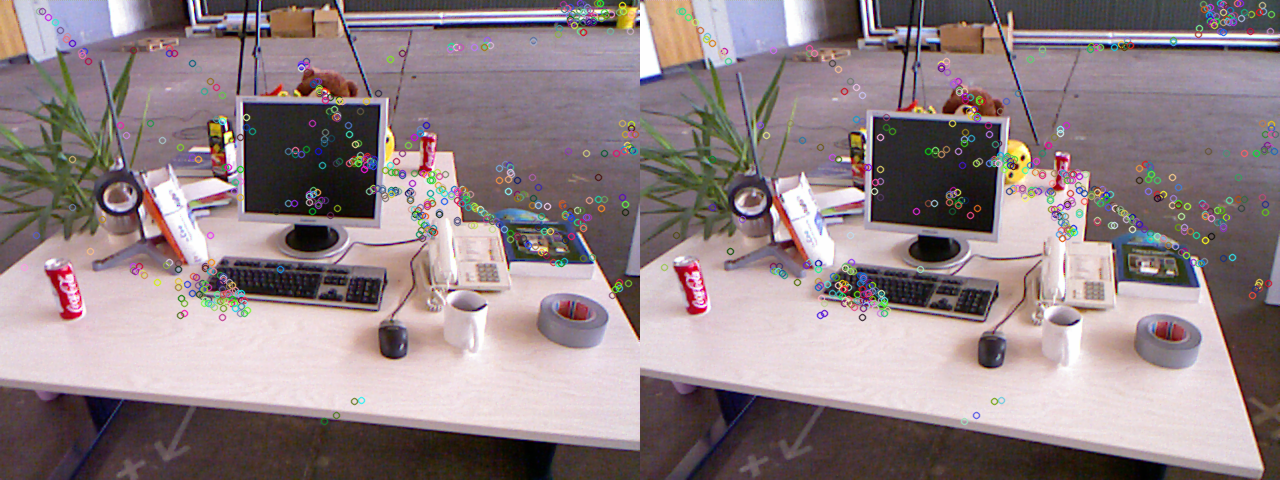
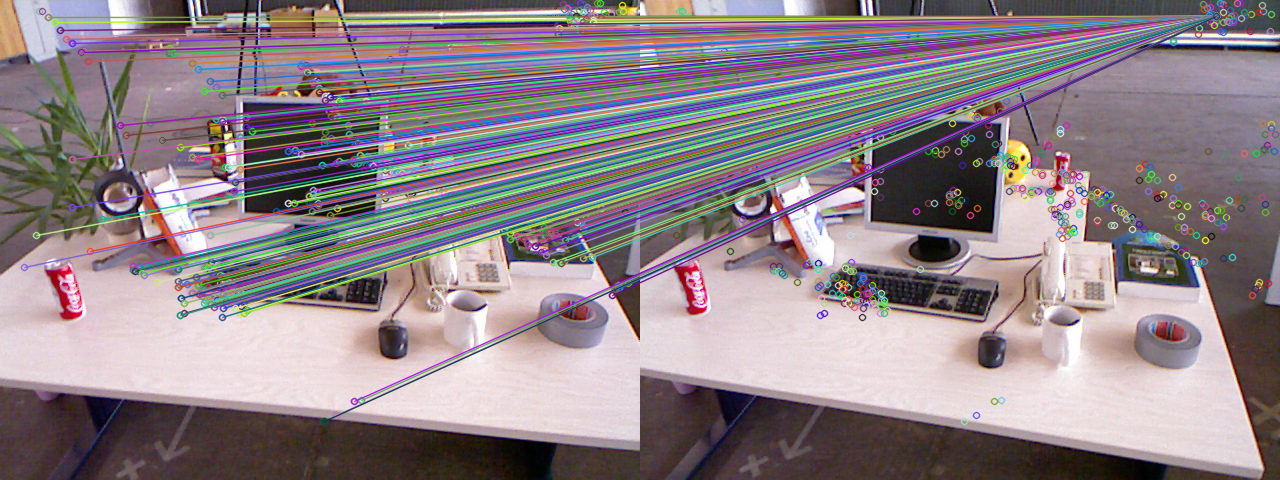
[Mod] Chapter 7 triangulation created

diff --git a/nicolas/ch7/triangulation/src/triangulation.cpp b/nicolas/ch7/triangulation/src/triangulation.cpp
@@ -1,0 +1,299 @@
+/* =========== */
+/*  Libraries  */
+/* =========== */
+#define OPENCV3  // If not defined, OpenCV2
+
+/* System Libraries */
+#include <iostream>
+#include <chrono>
+
+#include <opencv2/core/core.hpp>
+#include <opencv2/features2d/features2d.hpp>
+#include <opencv2/highgui/highgui.hpp>
+#include <opencv2/calib3d/calib3d.hpp>
+#include <opencv2/opencv.hpp>
+
+/* Custom Libraries */
+#include "../../include/libUtils.h"
+
+using namespace std;
+using namespace cv;
+
+/* Global Variables */
+// string image1_filepath = "../../orb_features/src/1.png";
+// string image2_filepath = "../../orb_features/src/2.png";
+string image1_filepath = "/home/nicolas/github/nicolasrosa-forks/slam/slambook2/nicolas/ch7/orb_features/src/1.png";
+string image2_filepath = "/home/nicolas/github/nicolasrosa-forks/slam/slambook2/nicolas/ch7/orb_features/src/2.png";
+
+double matches_lower_bound = 30.0;
+
+// Camera Internal parameters, TUM Freiburg2
+Mat K = (Mat_<double>(3, 3) << 520.9, 0, 325.1, 0, 521.0, 249.7, 0, 0, 1);
+Point2d principal_point(325.1, 249.7);  // Camera Optical center coordinates, TUM Dataset calibration value
+double focal_length = 521.0;            // Camera focal length, TUM dataset calibration value.
+
+/* ================= */
+/*  Functions Scope  */
+/* ================= */
+void find_features_matches(
+    const Mat &image1, const Mat &image2,
+    vector<KeyPoint> &keypoints1, vector<KeyPoint> &keypoints2,
+    vector<DMatch> &goodMatches);
+
+void pose_estimation_2d2d(
+    const vector<KeyPoint> &keypoints1, const vector<KeyPoint> &keypoints2,
+    const vector<DMatch> &matches,
+    Mat &R, Mat &t);
+
+void triangulation(
+    const vector<KeyPoint> &keypoints1, const vector<KeyPoint> &keypoints2,
+    const vector<DMatch> &matches,
+    const Mat &K, const Mat &R, const Mat &t,
+    const vector<Point3d> &points);
+
+
+// For drawing
+inline cv::Scalar get_color(float depth){
+    float up_th = 50.0, low_th = 10.0, th_range = up_th-low_th;
+
+    if (depth > up_th)  depth = up_th;
+    if (depth < low_th) depth = low_th;
+
+    return cv::Scalar(255*depth/th_range, 0, 255*(1-depth/th_range));
+}
+
+Mat vee2hat(const Mat var);
+
+// Pixel coordinates to camera normalized coordinates
+Point2d pixel2cam(const Point2d &p, const Mat &K);
+
+/* ====== */
+/*  Main  */
+/* ====== */
+/* This program demonstrates how to use 2D-2D feature matching to estimate camera motion. */
+int main(int argc, char **argv) {
+    cout << "[pose_estimation_2d2d] Hello!" << endl;
+
+    /* Load the images */
+    Mat image1 = imread(image1_filepath, CV_LOAD_IMAGE_COLOR);
+    Mat image2 = imread(image2_filepath, CV_LOAD_IMAGE_COLOR);
+    assert(image1.data != nullptr && image2.data != nullptr);
+
+    /* Initialization */
+    vector<KeyPoint> keypoints1, keypoints2;
+    vector<DMatch> goodMatches;
+
+    /* ---------------------------------- */
+    /*  Features Extraction and Matching  */
+    /* ---------------------------------- */
+    find_features_matches(image1, image2, keypoints1, keypoints2, goodMatches);
+    cout << "In total, we get " << goodMatches.size() << " set of feature points." << endl << endl;
+
+    /* ----------------------- */
+    /*  Pose Estimation 2D-2D  */
+    /* ----------------------- */
+    //--- Step 6.1: Estimate the motion (R, t) between the two images
+    Mat R, t;
+    pose_estimation_2d2d(keypoints1, keypoints2, goodMatches, R, t);
+
+    //--- Step 7.1: Triangulation
+    vector<Point3d> points;
+    triangulation(keypoints1, keypoints2, goodMatches, K, R, t, points);
+
+    //--- Step 7.2: Verify the reprojection relationship between the triangulation points and the feature points.
+    Mat image1_plot = image1.clone();
+    Mat image2_plot = image2.clone();
+
+    // TODO: Terminar
+
+    /* --------- */
+    /*  Results  */
+    /* --------  */
+    /* Display Images */
+    imshow("image1", image1);
+    imshow("image2", image2);
+    waitKey(0);
+
+    cout << "\nDone." << endl;
+
+    return 0;
+}
+
+void find_features_matches(const Mat &image1, const Mat &image2, vector<KeyPoint> &keypoints1, vector<KeyPoint> &keypoints2, vector<DMatch> &goodMatches){
+    //--- Initialization
+    Mat descriptors1, descriptors2;
+
+    #ifdef OPENCV3
+        cout << "'OpenCV3' selected." << endl << endl;
+        Ptr<FeatureDetector> detector = ORB::create();
+        Ptr<DescriptorExtractor> descriptor = ORB::create();
+        Ptr<DescriptorMatcher> matcher = DescriptorMatcher::create("BruteForce-Hamming");
+    #else
+        cout << "'OpenCV2' selected." << endl << endl;
+        Ptr<FeatureDetector> detector = FeatureDetector::create ("ORB" );
+        Ptr<DescriptorExtractor> descriptor = DescriptorExtractor::create ("ORB" );
+        BFMatcher matcher(NORM_HAMMING);
+    #endif
+
+    //--- Step 1: Detect the position of the Oriented FAST keypoints (Corner Points)
+    Timer t1 = chrono::steady_clock::now();
+    detector->detect(image1, keypoints1);
+    detector->detect(image2, keypoints2);
+    Timer t2 = chrono::steady_clock::now();
+
+    //--- Step 2: Calculate the BRIEF descriptors based on the position of Oriented FAST keypoints
+    descriptor->compute(image1, keypoints1, descriptors1);
+    descriptor->compute(image2, keypoints2, descriptors2);
+    Timer t3 = chrono::steady_clock::now();
+
+    //cout << descriptors1 << endl;
+    //cout << descriptors2 << endl;
+
+    //Mat outImage1, outImage2;
+    //drawKeypoints(image1, keypoints1, outImage1, Scalar::all(-1), DrawMatchesFlags::DEFAULT);
+    //drawKeypoints(image2, keypoints2, outImage2, Scalar::all(-1), DrawMatchesFlags::DEFAULT);
+
+    //--- Step 3: Match the BRIEF descriptors of the two images using the Hamming distance
+    vector<DMatch> matches;
+
+    Timer t4 = chrono::steady_clock::now();
+    matcher->match(descriptors1, descriptors2, matches);
+    Timer t5 = chrono::steady_clock::now();
+
+    //--- Step 4: Select correct matching (filtering)
+    // Calculate the min & max distances
+    double min_dist = 10000, max_dist = 0;
+
+    // Find the mininum and maximum distances between all matches, that is, the distance between the most similar and least similar two sets of points
+    for (int i = 0; i < descriptors1.rows; i++){
+        double dist = matches[i].distance;
+        if(dist < min_dist) min_dist = dist;
+        if(dist > max_dist) max_dist = dist;
+    }
+
+    // Rule of Thumb: When the distance between the descriptors is greater than 2 times the min distance, we treat the matching as wrong.
+    // But sometimes the min distance could be very small, set an experience value of 30 as the lower bound.
+    Timer t6 = chrono::steady_clock::now();
+    for (int i=0; i<descriptors1.rows; i++){
+        // cout << matches[i].distance << endl;
+        if (matches[i].distance <= max(2*min_dist, matches_lower_bound)){
+            goodMatches.push_back(matches[i]);
+            // cout << matches[i].distance << endl;
+        }
+    }
+    Timer t7 = chrono::steady_clock::now();
+
+    //--- Step 5: Visualize the Matching result
+    Mat image_goodMatches;
+
+    drawMatches(image1, keypoints1, image2, keypoints2, goodMatches, image_goodMatches);
+
+    imshow("image_goodMatches", image_goodMatches);
+
+    /* Results */
+    printTimeElapsed("ORB Features Extraction: ", t1, t3);
+    printTimeElapsed(" | Oriented FAST Keypoints detection: ", t1, t2);
+    printTimeElapsed(" | BRIEF descriptors calculation: ", t2, t3);
+    cout << "\n-- Number of detected keypoints1: " << keypoints1.size() << endl;
+    cout << "-- Number of detected keypoints2: " << keypoints2.size() << endl << endl;
+
+    printTimeElapsed("ORB Features Matching: ", t4, t5);
+    cout << "-- Number of matches: " << matches.size() << endl;
+    cout << "-- Min dist: " << min_dist << endl;
+    cout << "-- Max dist: " << max_dist << endl << endl;
+
+    printTimeElapsed("ORB Features Filtering: ", t6, t7);
+    cout << "-- Number of good matches: " << goodMatches.size() << endl;
+
+}
+
+void pose_estimation_2d2d(const vector<KeyPoint> &keypoints1, const vector<KeyPoint> &keypoints2, const vector<DMatch> &matches, Mat &R, Mat &t){
+    //--- Convert the Matched Feature points to the form of vector<Point2f> (Pixels Coordinates)
+    vector<Point2f> points1, points2;
+
+    for (int i=0; i < (int) matches.size(); i++){
+        cout << i << " " << matches[i].queryIdx << " " << matches[i].trainIdx << endl;
+        points1.push_back(keypoints1[matches[i].queryIdx].pt);
+        points2.push_back(keypoints2[matches[i].trainIdx].pt);
+    }
+
+    cout << endl;
+
+    //--- Calculate the Fundamental Matrix
+    Timer t1 = chrono::steady_clock::now();
+    Mat F = findFundamentalMat(points1, points2, CV_FM_8POINT);  // 8-Points Algorithm
+    Timer t2 = chrono::steady_clock::now();
+
+    //--- Calculate the Essential Matrix
+    Mat E = findEssentialMat(points1, points2, focal_length, principal_point);  // Remember: E = t^*R = K^T*F*K, Essential matrix needs intrinsics info.
+    Timer t3 = chrono::steady_clock::now();
+
+    //--- Calculate the Homography Matrix
+    //--- But the scene in this example is not flat, and then Homography matrix has little meaning.
+    Mat H = findHomography(points1, points2, RANSAC, 3);
+    Timer t4 = chrono::steady_clock::now();
+
+    //--- Restore Rotation and Translation Information from the Essential Matrix, E = t^*R
+    // In this program, OpenCV will use triangulation to detect whether the detected point’s depth is positive to select the correct solution.
+    // This function is only available in OpenCV3!
+    recoverPose(E, points1, points2, R, t, focal_length, principal_point);
+    Timer t5 = chrono::steady_clock::now();
+
+    /* Results */
+    printTimeElapsed("Pose estimation 2D-2D: ", t1, t5);
+    printTimeElapsed(" | Fundamental Matrix Calculation: ", t1, t2);
+    printTimeElapsed(" |   Essential Matrix Calculation: ", t2, t3);
+    printTimeElapsed(" |  Homography Matrix Calculation: ", t3, t4);
+    printTimeElapsed(" |             Pose Recover(R, t): ", t4, t5);
+    cout << endl;
+
+    printMatrix("K:\n", K);
+    printMatrix("F:\n", F);
+    printMatrix("E:\n", E);
+    printMatrix("H:\n", H);
+
+    printMatrix("R:\n", R);
+    printMatrix("t:\n", t);
+}
+
+void triangulation(const vector<KeyPoint> &keypoints1, const vector<KeyPoint> &keypoints2, const vector<DMatch> &matches, const Mat &K, const Mat &R, const Mat &t, const vector<Point3d> &points){
+    Mat T1 = (Mat_<float>(3, 4) <<
+    1, 0, 0, 0,
+    0, 1, 0, 0,
+    0, 0, 1, 0);
+
+    Mat T2 = (Mat_<float>(3, 4) <<
+    R.at<double>(0, 0), R.at<double>(0, 1), R.at<double>(0, 2), t.at<double>(0, 0),
+    R.at<double>(1, 0), R.at<double>(1, 1), R.at<double>(1, 2), t.at<double>(1, 0),
+    R.at<double>(2, 0), R.at<double>(2, 1), R.at<double>(1, 2), t.at<double>(2, 0));
+
+    printMatrix("T1:\n", T1);
+    printMatrix("T2:\n", T2);
+
+}
+
+Mat vee2hat(const Mat var){
+    Mat var_hat = (Mat_<double>(3,3) <<
+                         0.0, -var.at<double>(2,0),  var.at<double>(1,0),
+         var.at<double>(2,0),                  0.0, -var.at<double>(0,0),
+        -var.at<double>(1,0),  var.at<double>(0,0),                 0.0);  // Inline Initializer
+
+    //printMatrix("var_hat:", var_hat);
+
+    return var_hat;
+}
+
+/**
+ * @brief Convert Pixel Coordinates to Normalized Coordinates (Image Plane, f=1)
+ *
+ * @param p Point2d in Pixel Coordinates, p=(u,v)
+ * @param K Intrinsic Parameters Matrix
+ * @return Point2d in Normalized Coordinates, x=(x,y)
+ */
+Point2d pixel2cam(const Point2d &p, const Mat &K) {
+  return Point2d
+    (
+      (p.x-K.at<double>(0, 2)) / K.at<double>(0, 0),  // x = (u-cx)/fx
+      (p.y-K.at<double>(1, 2)) / K.at<double>(1, 1)   // y = (v-cy)/fy
+    );
+}
